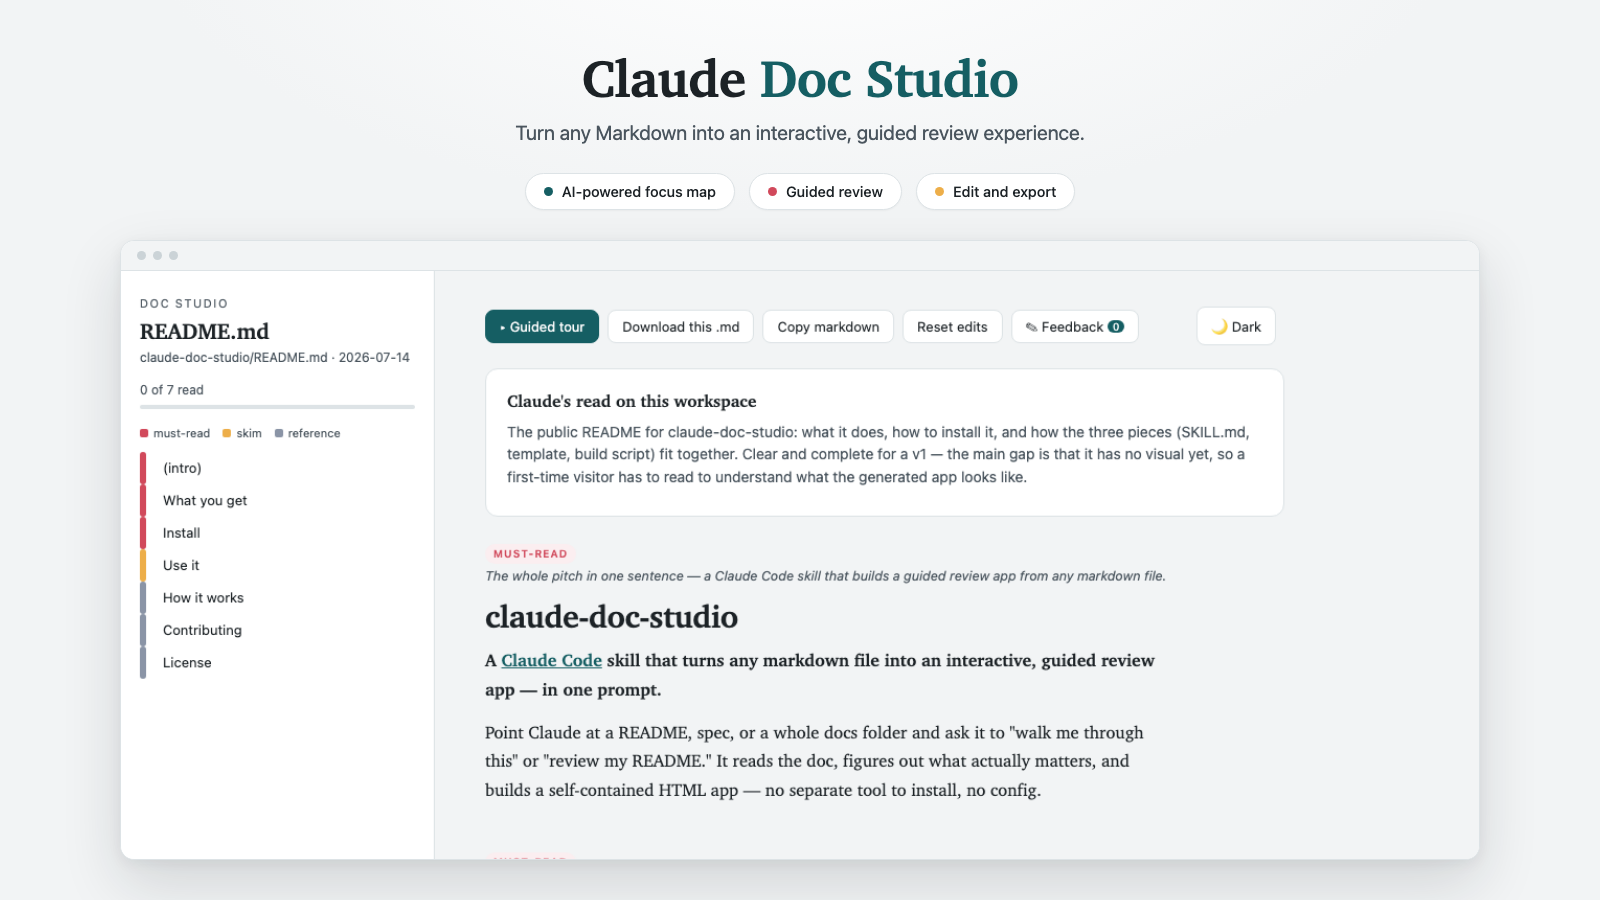
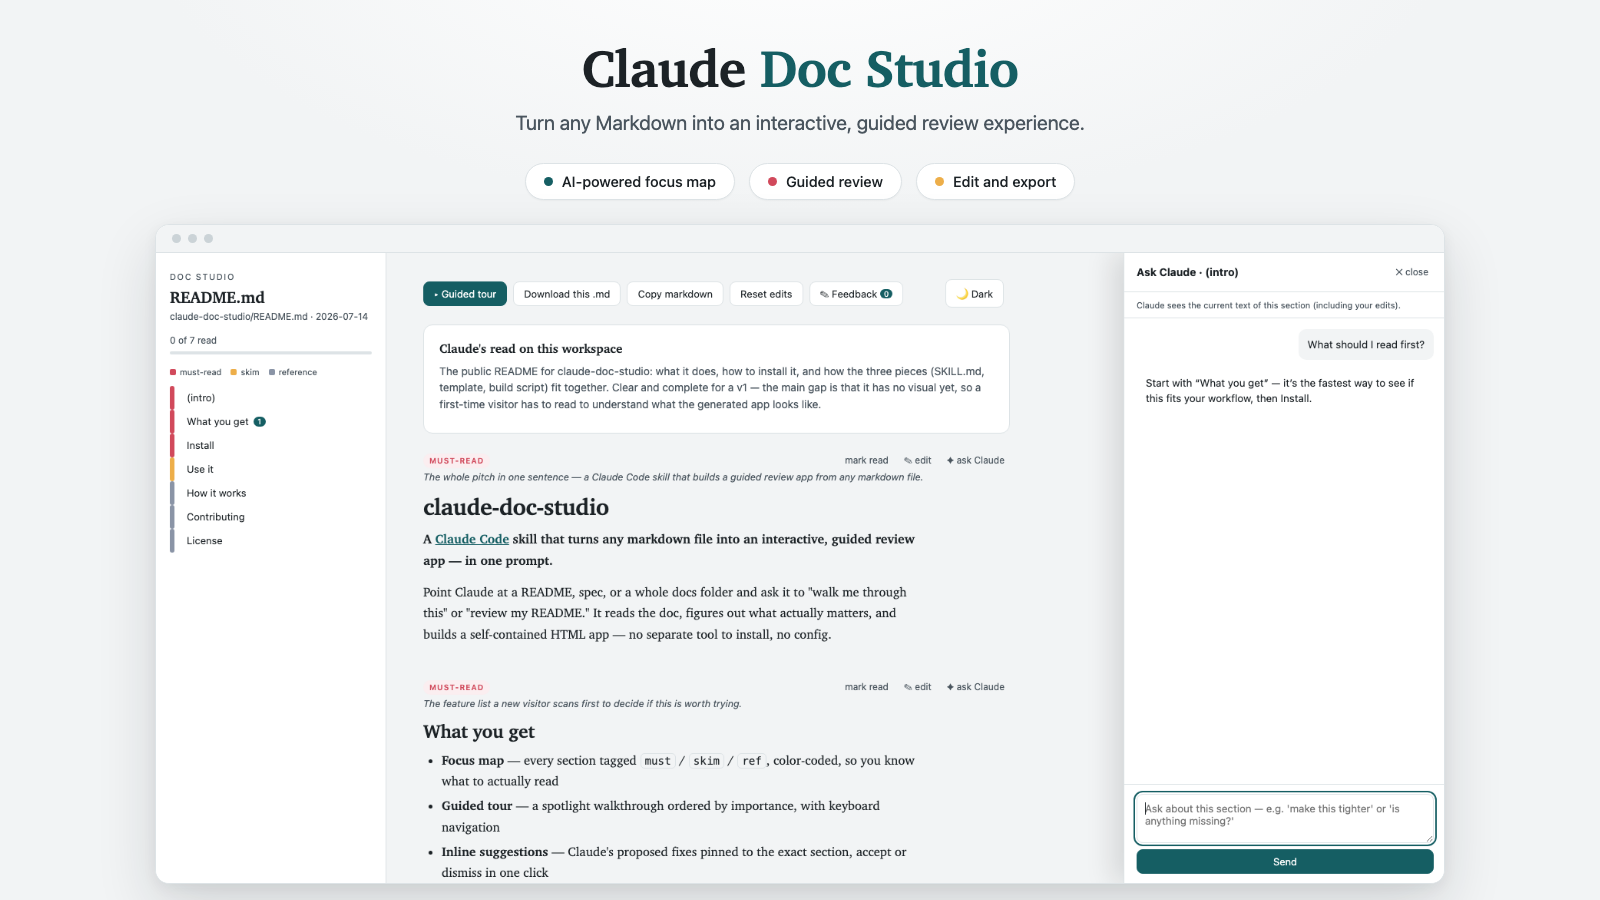
Show interactivity in the hero screenshot
The previous screenshot only captured the passive read view — the
edit/ask-Claude buttons are hover-only (opacity:0 by default) so they
never appeared, and no suggestion was visible. This version reveals
those buttons and opens the real Ask-Claude drawer with a genuine
demo exchange (using the app's own openDrawer/addMsg), and adds one
real suggestion so its badge shows in the sidebar.

diff --git a/assets/readme/hero.html b/assets/readme/hero.html
@@ -17,7 +17,7 @@
     background:
       radial-gradient(1100px 500px at 50% -10%, #FFFFFF 0%, var(--paper) 60%);
     display:flex;flex-direction:column;align-items:center;
-    padding:44px 0 40px;
+    padding:34px 0 28px;
   }
   h1{
     font-family:var(--serif);
@@ -45,9 +45,12 @@
   .d-must{background:var(--must)}
   .d-skim{background:var(--skim)}
 
+  .frame-wrap{
+    margin-top:24px;width:100%;
+    display:flex;align-items:flex-start;justify-content:center;
+  }
   .frame{
-    margin-top:30px;
-    width:1360px;
+    width:1290px;
     border:1px solid var(--line);
     border-radius:14px;
     background:var(--surface);
@@ -55,12 +58,12 @@
     overflow:hidden;
   }
   .frame-bar{
-    height:30px;display:flex;align-items:center;gap:7px;
+    height:28px;display:flex;align-items:center;gap:7px;
     padding:0 16px;border-bottom:1px solid var(--line);
     background:var(--paper);
   }
   .frame-bar span{width:9px;height:9px;border-radius:50%;background:#CBD3D7}
-  .frame img{display:block;width:1360px;height:auto}
+  .frame img{display:block;width:1290px;height:auto}
 </style>
 </head>
 <body>
@@ -73,9 +76,11 @@
     <div class="callout"><span class="dot d-skim"></span>Edit and export</div>
   </div>
 
-  <div class="frame">
-    <div class="frame-bar"><span></span><span></span><span></span></div>
-    <img src="app-screenshot.png" alt="Claude Doc Studio interface">
+  <div class="frame-wrap">
+    <div class="frame">
+      <div class="frame-bar"><span></span><span></span><span></span></div>
+      <img src="app-screenshot.png" alt="Claude Doc Studio interface — focus map, edit and ask-Claude actions, and a live Ask Claude conversation">
+    </div>
   </div>
 </body>
 </html>
